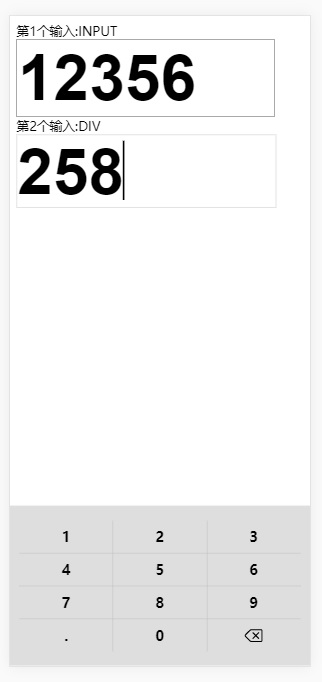
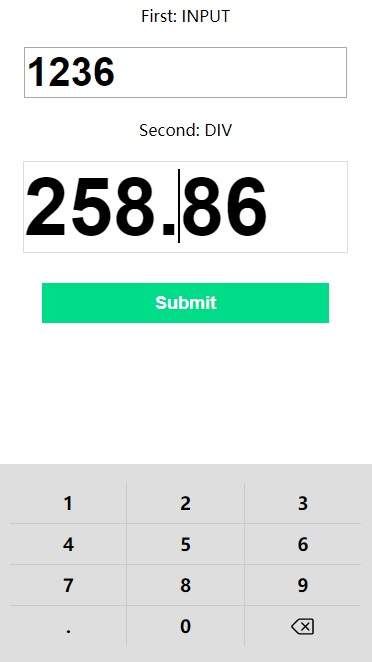
a

diff --git a/demo.html b/demo.html
@@ -2,12 +2,8 @@
 <html>
 <head>
        <meta name="viewport" content="width=device-width, initial-scale=1, maximum-scale=1, minimum-scale=1, user-scalable=no,viewport-fit=cover">
-   <meta name="apple-mobile-web-app-capable" content="yes">
-   <meta name="apple-mobile-web-app-status-bar-style" content="black"> 
-   <meta name="sharecontent" data-msg-img="你的缩略图地址" data-msg-title="你的标题1" data-msg-content="你的简介" data-msg-callBack="" data-line-img="你的缩略图地址" data-line-title="你的标题2" data-line-callBack=""/>
 
-    <meta name="format-detection" content="telephone=no">
-    <meta http-equiv="x-rim-auto-match" content="none"> 
+      
    <title>CoolInput Demo</title>
  
     <script src="jquery-1.12.4.min.js"></script>
@@ -17,19 +13,23 @@
  
 <body > 
   
-   <div>
-       <div>第1个输入:INPUT</div>
-       <input type="text" style="font-family:Arial; font-size:80px;font-weight:bold; width:90%;" id="amount" />
-       <div>第2个输入:DIV</div>
-       <div type="text" style="font-family:Arial;letter-spacing:0px; width:90%;height:90px;border-style:solid;border-color:#ddd;border-width:1px;font-size:80px;font-weight:bold;" id="amount1" ></div>
-
-   </div>
+   <div style="text-align:center;">
+       <div>First: INPUT</div><br />
+       <div>
+       <input type="text" id="amount" v-model="amount" style="font-family:Arial; font-size:40px;font-weight:bold; width:90%;"  />
+       </div><br />
+       <div>Second: DIV</div><br />
+       <div id="amount1" v-model="amount1" style="text-align:left;display:inline-block; font-family:Arial;letter-spacing:0px; width:90%;height:90px;border-style:solid;border-color:#ddd;border-width:1px;font-size:80px;font-weight:bold;"></div>
+       <button id="btnSubmit" style="margin-top:30px;width:80%; height:40px;background-color:#0d8;color:#fff;border-color:transparent;font-weight:bold;font-size:18px;" >Submit</button>
+    </div>
     <script>
         var data = {};
-        var coolInput = new CoolInput({ slt: '#amount', data: data });
+        var coolInput = new CoolInput({ slt: '#amount', data: data }); 
         coolInput.showPanel();
         var coolInput1 = new CoolInput({ slt: '#amount1', data: data });
-       
+        $('#btnSubmit').on('click', function () {
+            alert('the data you entered is amount:'+data.amount+' and amount1:'+data.amount1);
+        });
     </script>
 </body>
 </html>
